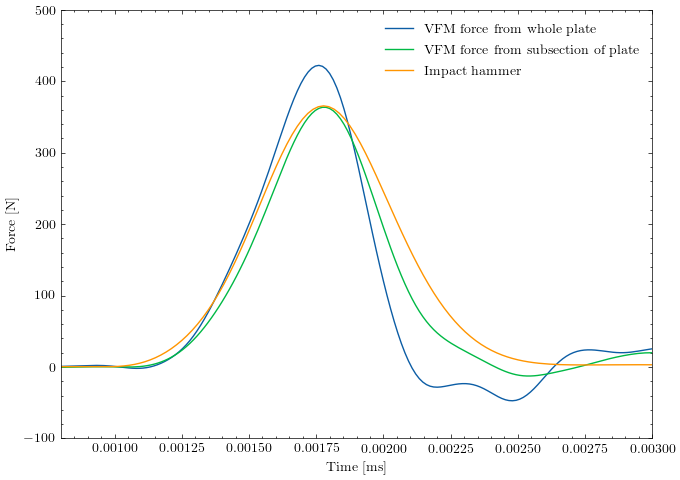
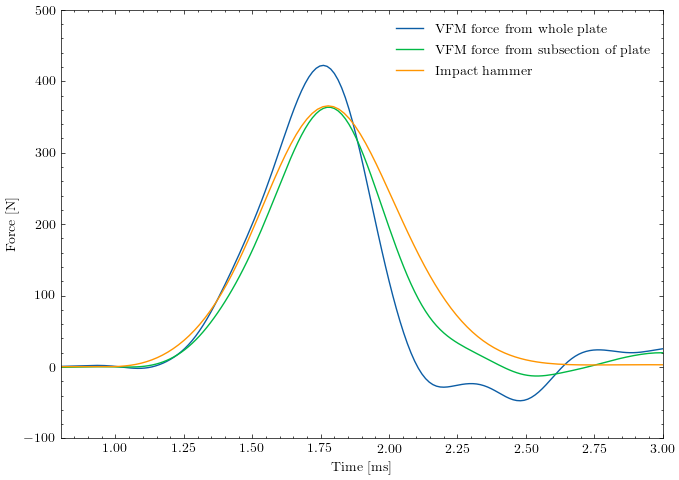
Fixed error in time axis

diff --git a/examples/Experiments/reconstuctExperimentalCropping.py b/examples/Experiments/reconstuctExperimentalCropping.py
@@ -75,10 +75,10 @@ hammer_force, hammer_time = exp_data.hammer_data()
 
 # Plot the results
 plt.figure(figsize=(7,5))
-plt.plot(times, np.sum(presses, axis=(1, 2)) * ((pixel_size_on_mirror * downsampling_factor) ** 2.), label="VFM force from whole plate")
-plt.plot(times, np.sum(presses[:,20:50,20:50], axis=(1, 2)) * ((pixel_size_on_mirror * downsampling_factor) ** 2.), label="VFM force from subsection of plate")
-plt.plot(hammer_time, hammer_force, label="Impact hammer")
-plt.xlim(left=0.0008, right=0.003)
+plt.plot(1000*np.array(times), np.sum(presses, axis=(1, 2)) * ((pixel_size_on_mirror * downsampling_factor) ** 2.), label="VFM force from whole plate")
+plt.plot(1000*np.array(times), np.sum(presses[:,20:50,20:50], axis=(1, 2)) * ((pixel_size_on_mirror * downsampling_factor) ** 2.), label="VFM force from subsection of plate")
+plt.plot(1000*hammer_time, hammer_force, label="Impact hammer")
+plt.xlim(left=0.8, right=3)
 plt.ylim(top=500, bottom=-100)
 plt.xlabel("Time [ms]")
 plt.ylabel(r"Force [N]")
